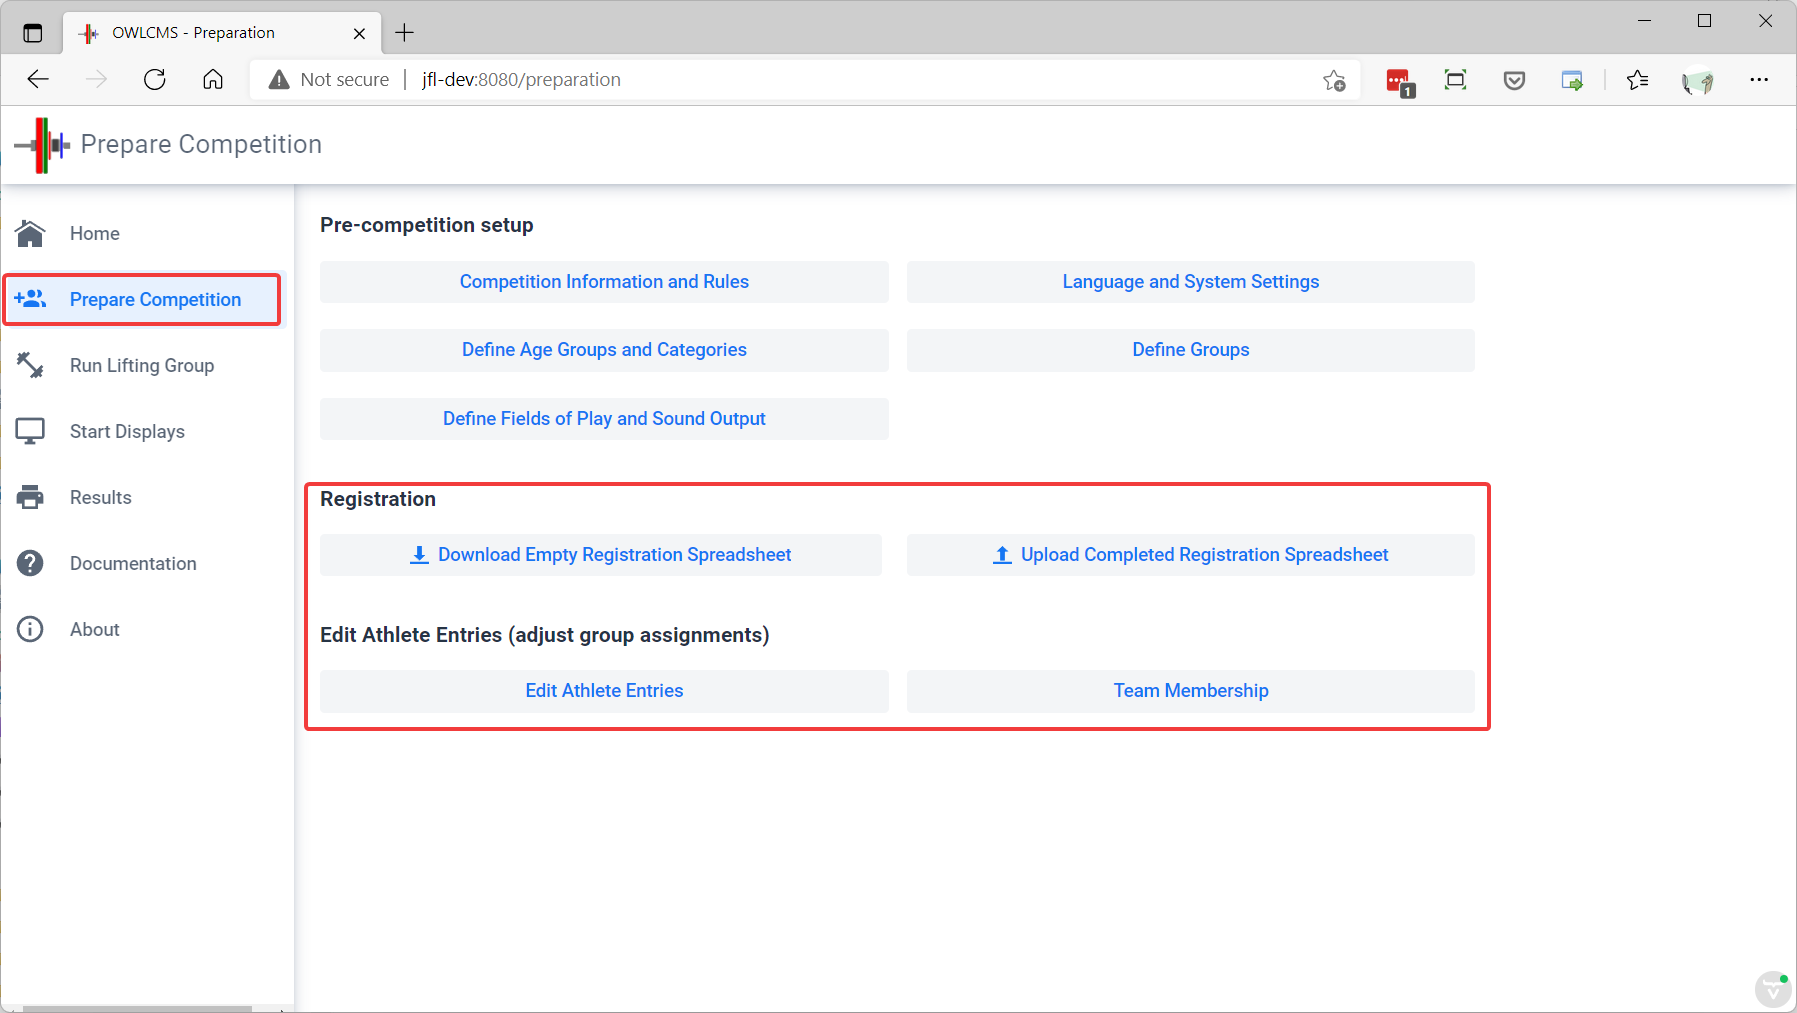
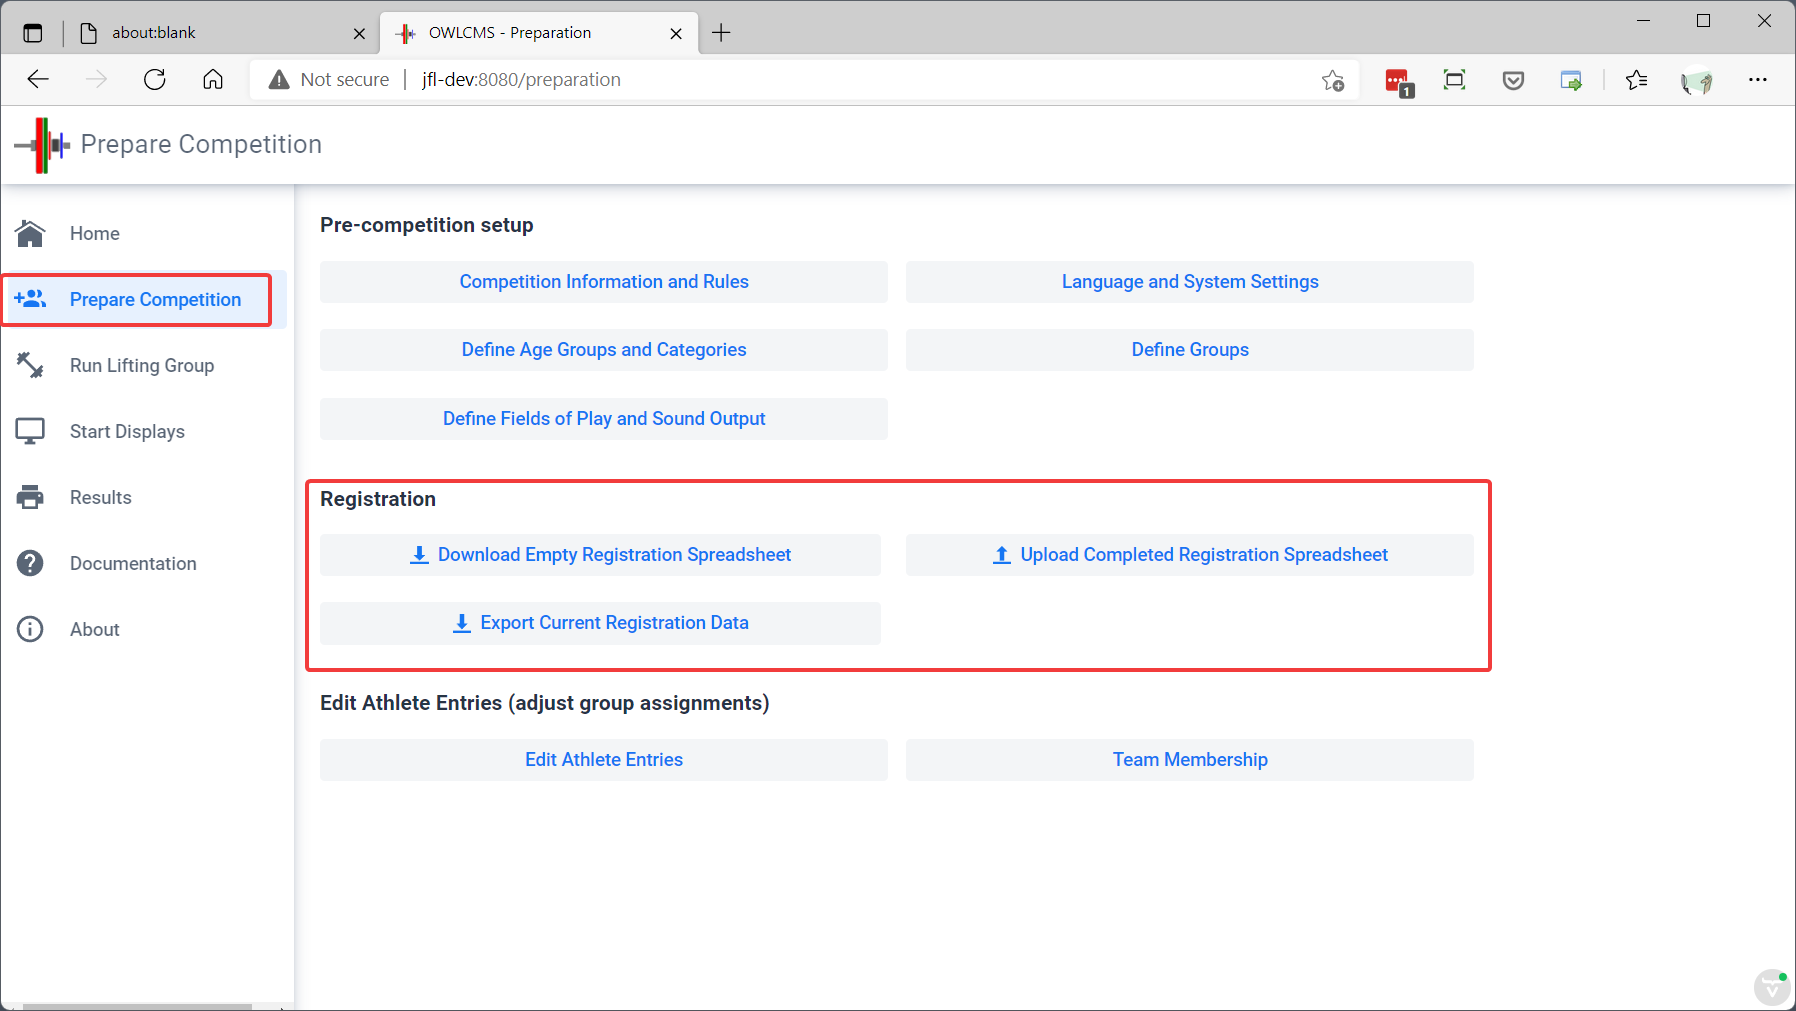
updated documentation for registration documents.

diff --git a/docs/Registration.md b/docs/Registration.md
@@ -12,35 +12,51 @@ These steps are performed from the `Prepare Competition` page
 
 ## Clearing athletes from a previous competition
 
-Unless you are running from a new installation, your database will contain information from the previous competition.  In order to clear the database, use to the **`Edit Athlete Entries`** button on the `Prepare Competition` page.   At the top of the page, use the `Delete Athletes` button and Confirm.
+If you have more than a dozen athletes, we suggest that you enter your athletes using an Excel spreadsheet (see below), and this step is not necessary.
+
+In order to clear the database from a previous competition, use to the **`Edit Athlete Entries`** button on the `Prepare Competition` page.   At the top of the page, use the `Delete Athletes` button and Confirm.
 
 ![070_Delete](img/Preparation/070_Delete.png)
 
 ## Uploading a list of athletes
 
-Because entering athletes is somewhat tedious, it is easier to upload a list prepared with Excel which allows copy-and-paste in an easier way.  In order to do so, three steps are involved
+Because entering athletes is tedious, it is easier to upload a list prepared with Excel which allows copy-and-paste in an easier way.  
 
-1. Obtaining an up-to-date form to capture information.  From the `Prepare Competition` page, click on the `Download Empty Registration Template` button.  Open the downloaded file and **SAVE IT** somewhere in your own documents.
+1. Getting started. Obtain an up-to-date empty form to capture information. The format is occasionally updated, so it is always best to get the current version. 
+   From the `Prepare Competition` page, click on the `Download Empty Registration Template` button.  Open the downloaded file and **SAVE IT** somewhere in your own documents.
 
    ![072_Download_Upload](img/Preparation/072_Download_Upload.png)
 
-2. Fill-in the Excel with the information about your athletes.  Assign each athlete to a group and a weight category. Note that this is a presumed category, for the purpose of creating your groups.  
-   
-> - When you load the file, the program will assign the athlete to the age groups and categories where he or she is eligible. If you have multiple overlapping age groups (for example IWF Junior and Senior) present, the athlete will be added to both categories.  You can instead put the expected body weight if you prefer.
-   > - The program will create groups with the code names you use.  You can use numbers, or any short combinations.  Some people use the categories present (ex: M81B-M77A)
+   Note: If you have an existing database and want to start from that list, you can export the current content.
 
-3. Note that the Date must be entered as an Excel Date using your regional settings.
+2. Fill-in the Excel with the information about your athletes.  
+> - For each athlete, you need to provide at least the birth year, the gender, and the expected body weight.
+> - The program will automatically assign the athlete to the age groups and categories where he or she is eligible. If you have multiple overlapping age groups (for example IWF Junior and Senior) present, the athlete will be added to both categories.  If there are additional eligibility requirements that mean an athlete is not eligible, you can remove the eligibility using the registration page in the program.
+
+3. When entering dates and times, <u>please use the same format as the one proposed</u> by the Excel sheet.
 
    ![073_excel](img/Preparation/073_excel.png)
 
-4. Upload the completed form.  Note that this **deletes the previous entries**.
+4. The groups that you list on the "Athletes" tab should be defined on the second "Groups" tab.  The minimum is to provide the group code.
 
-   > The recommended practice is to keep the Excel registration sheet until AFTER the verification of final entries.  You can move athletes from group to group and adjust their entry total faster on the sheet.
+   > - The program will create groups with the code names you use.  You can use numbers, or any short combinations.  Some people use the categories present in the group (ex: M81B-M77A)
+   > - When entering dates and times, <u>we recommend that you use the format that Excel shows you</u> (which may vary based on your Office and operating system settings).  The program will also accept an international `yyyy-MM-dd hh:mm`  format (4-digit year, month, day, 24-hour hour, minutes) as an alternative.
+
+   ![073b_excel](img/Preparation/073b_excel.png)
+
+5. Upload the completed form.  Note that this **deletes the previous athletes and groups**.
+
+   > The recommended practice is to keep the Excel registration sheet until the verification of final entries is done.  You can then move athletes from group to group and adjust their entry total faster on the sheet.
    >
-   > You should therefore **keep all athletes from all groups** on your Excel
+   > The Excel sheet should contain all the athletes that will compete.
 
-5. Fix errors, if any. If there are errors detected on the upload, they will be shown (for example, wrong category codes).  The athlete will still be created, but without the faulty information.  You can either upload again after correcting and clearing, or fix by hand (see below)
-   ![074_Upload](img/Preparation/074_Upload.png)
+6. Fix errors, if any. If there are errors detected on the upload, they will be shown (for example, unreadable dates in a cell, or a missing group).  The athlete will still be created, but without the faulty information.  You can either upload again after correcting.  If you use the program to fix the errors, make sure you export the information so you can reload it later.
+
+## Reloading information
+
+If you need to make important changes, such as adding a new team of athletes, reorganizing the groups, and so on, you can export what you have already loaded back to an Excel sheet, do the changes in Excel, and reload.
+
+As stated earlier, this will recreate the athletes and groups from scratch, so this needs to be done *before* the competition.
 
 ## Adding or Editing Athletes after loading
 
